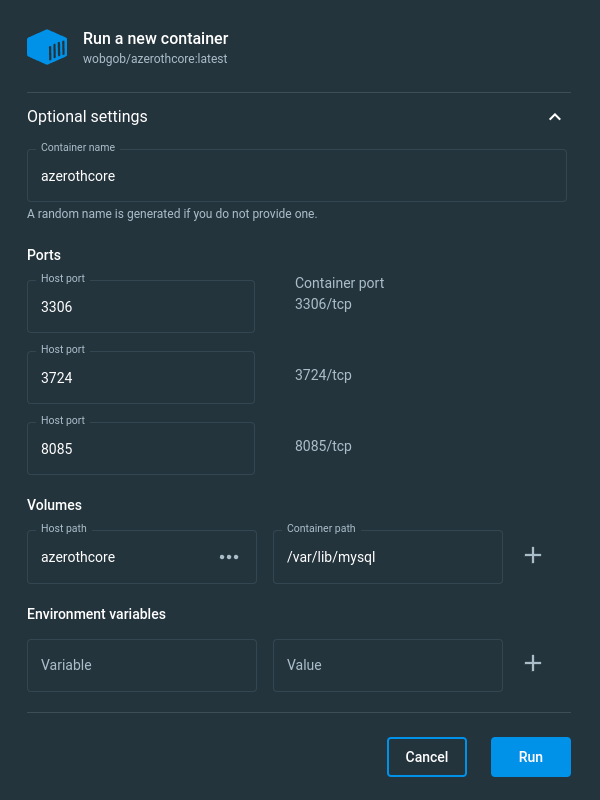
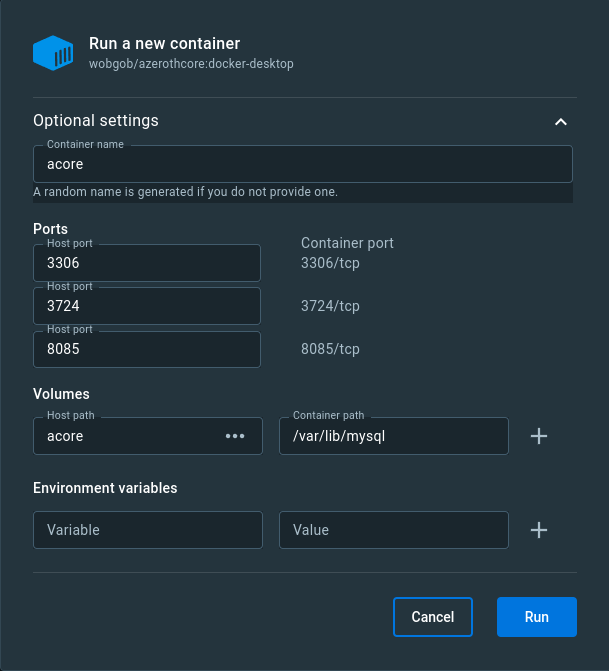
Update AzerothCore tutorial

diff --git a/hearthside/azerothcore.html b/hearthside/azerothcore.html
@@ -45,10 +45,9 @@
       class="margin-toggle"/><span class="sidenote">A Docker image is a file
       used to execute code in a Docker container. A Docker container is a
       runnable instance of an image.</span> provided by Wobblin' Goblin has
-      bots, scaling and individual progression to allow for a good single player
-      or small group experience. Think of our Docker image as a repack that is
-      easily updated and that you can compile yourself to create your own
-      experience.</p>
+      cross faction, bots and scaling to allow for a good single player or small
+      group experience. Think of our Docker image as a repack that is easily
+      updated.</p>
     </section>
 
     <section>
@@ -61,10 +60,10 @@
       <ol>
         <li>
           <h3 id="installation--run-image">Run Image</h3>
-          <p>In Docker Desktop go to the search bar in the top right
-          (<code>Ctrl+K</code>) and search for <code>wobgob/azerothcore</code>.
-          Once you've found the image you'll want to hit <em>Run</em> which will
-          bring up a prompt. Do not hit <em>Run</em> again yet.</p>
+          <p>In Docker Desktop go to the search bar (<code>Ctrl+K</code>) and
+          search for <code>wobgob/azerothcore</code>.  Once you've found the
+          image you'll want to hit <em>Run</em> which will bring up a prompt. Do
+          not hit <em>Run</em> again yet.</p>
         </li>
 
         <li>
@@ -83,16 +82,16 @@
 
           <p>Set the realm list of your 3.3.5a client to <code>127.0.0.1</code>
           then use the username <code>acore</code> and password
-          <code>acore</code> to log into the console account.</p>
+          <code>acore</code> to log into the administrator account.</p>
         </li>
       </ol>
     </section>
 
     <section>
       <h2 id="setup">Setup</h2>
-      <p>Once you're logged into the console account create a game master (GM)
-      character with a name of your choice. This will be the character you'll
-      manage the server with.</p>
+      <p>Once you're logged into the administrator account create a game master
+      (GM) character with a name of your choice. This will be the character
+      you'll manage the server with.</p>
 
       <p>It's recommended that you use a separate player account for playing by
       yourself or with others. To create another account enter the following
@@ -121,76 +120,22 @@
       tunneling service you'll only be able to play with others in your local
       area network.</p>
 
-      <p><em>How do I backup my data?</em> To backup your data you will need to
-      expose port <code>3306</code> and use a database tool to dump its
-      contents. To connect to the database the server host should be
-      <code>127.0.0.1</code>, the port is <code>3306</code>, the username is
-      <code>acore</code> and the password is <code>acore</code>.</p>
+      <p><em>How do I change the configuration?</em> You'll need to download the
+      code from <a target="_blank"
+      href="https://github.com/wobgob/azerothcore/"><code>wobgob/azerothcore</code></a>.
+      You can then edit the configuration in <code>etc</code>. When running your
+      container create another volume and set the host path to the
+      <code>etc</code> directory and the container path should be
+      <code>/azerothcore/etc</code>.</p>
+
+      <p><em>How do I backup my data?</em> You'll need to use a database tool to
+      dump the database's contents. To connect to the database the server host
+      should be <code>127.0.0.1</code>, the port is <code>3306</code>, the
+      username is <code>acore</code> and the password is <code>acore</code>.</p>
 
       <p><em>How do I contribute?</em> The best way to contribute is to <a
       target="_blank" href="https://discord.wobgob.org">join the community</a>
       to help others and to share and discuss your creations.</p>
-    </section>
-
-    <section>
-      <h2 id="appendix-compiling">Appendix: Compiling</h2>
-      <p>Compiling yourself is a great way to create your own custom AzerothCore
-      experience. To start compiling you'll need to complete the following
-      steps.</p>
-
-      <ol>
-        <li><a target="_blank" href="https://github.com/join">Join Github</a></li>
-
-        <li>Download and install <a target="_blank"
-        href="https://desktop.github.com/">GitHub Desktop</a><label
-        for="sn-github-desktop" class="margin-toggle
-        sidenote-number"></label><input type="checkbox" id="sn-github-desktop"
-        class="margin-toggle"/><span class="sidenote">Linux users can find
-        releases at <a target="_blank"
-        href="https://github.com/shiftkey/desktop/releases">shiftkey/desktop</a></span>
-        and <a target="_blank" href="https://code.visualstudio.com/">Visual
-        Studio Code</a></li>
-
-        <li>Open GitHub Desktop and in the <strong>File </strong> menu click
-        <strong>Clone Repository...</strong></li>
-        <img src="/img/clone-file-menu.png">
-
-        <li>Click <strong>URL</strong> and enter
-        <code>wobgob/azerothcore</code>. Click <strong>Choose...</strong> and
-        navigate to a local path where you want to clone the repository then
-        click <strong>Clone</strong>.</li>
-        <img src="/img/clone-repository.png">
-
-        <li>Click <strong>For my own purposes</strong> then click
-        <strong>Continue</strong></li>
-        <img src="/img/windows-fork-own-purposes.png">
-
-        <li>After cloning, in the <strong>Repository</strong> menu click
-        <strong>Open in Visual Studio Code</strong></li>
-
-        <li>In Visual Studio Code you can edit the configuration files in the
-        <code>etc</code> folder</li>
-        <img src="/img/visual-studio-code.png">
-
-        <li>After you have saved your edits, in the <strong>Terminal</strong>
-        menu click <strong>New Terminal</strong></li>
-
-        <li>In the Terminal enter <code>docker build -t azerothcore .</code> to
-        compile your image</li>
-
-        <li>Compilation can take a while but once it's finished you can find
-        your new image called <code>azerothcore</code> in Docker Desktop to
-        run</li>
-        <img src="/img/docker-desktop-images.png">
-      </ol>
-
-      <p>This is just a bare minimum example of changing configuration files.
-      You can also add modules from the <a target="_blank"
-      href="https://www.azerothcore.org/catalogue.html#/">AzerothCore
-      Catalogue</a> to create your own custom AzerothCore experience. For
-      further assistance with creating your own custom AzerothCore experience <a
-      target="_blank" href="https://discord.wobgob.org">join the
-      community</a>.</p>
     </section>
   </article>
 </body>
